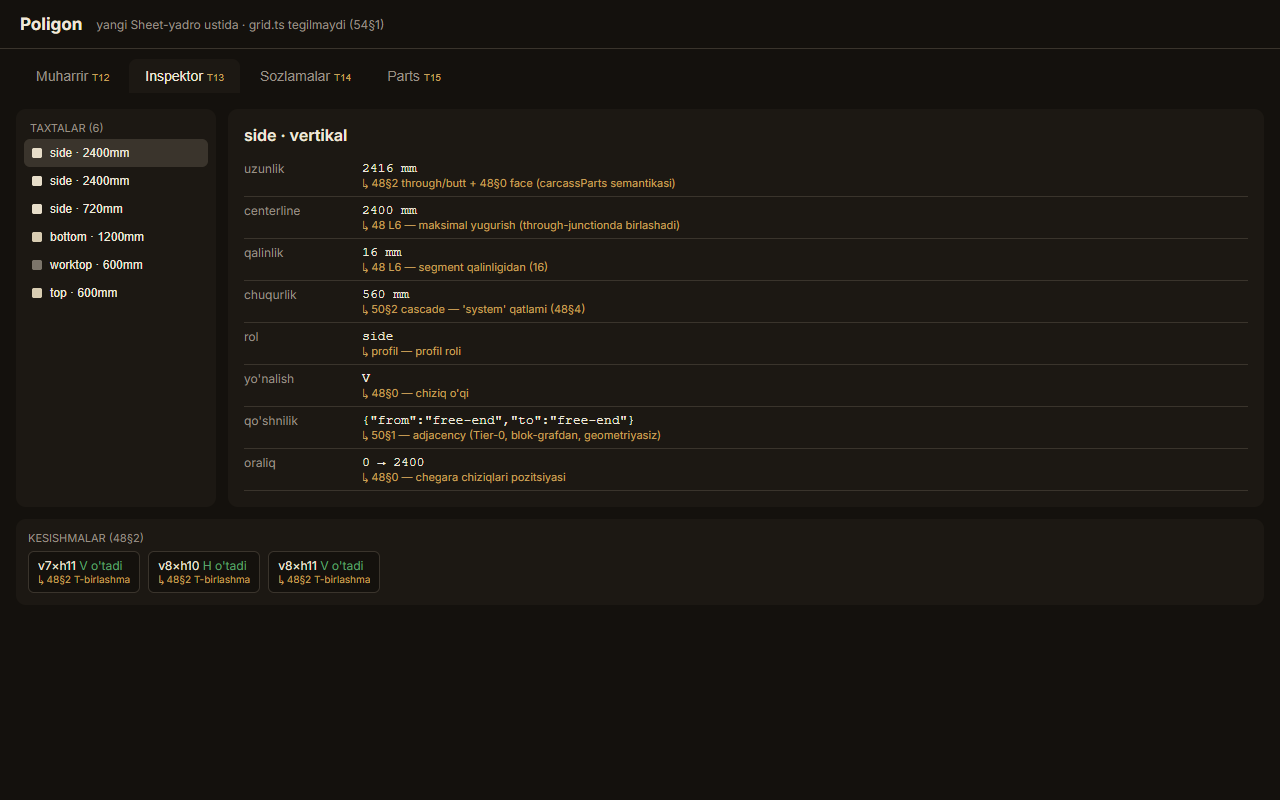
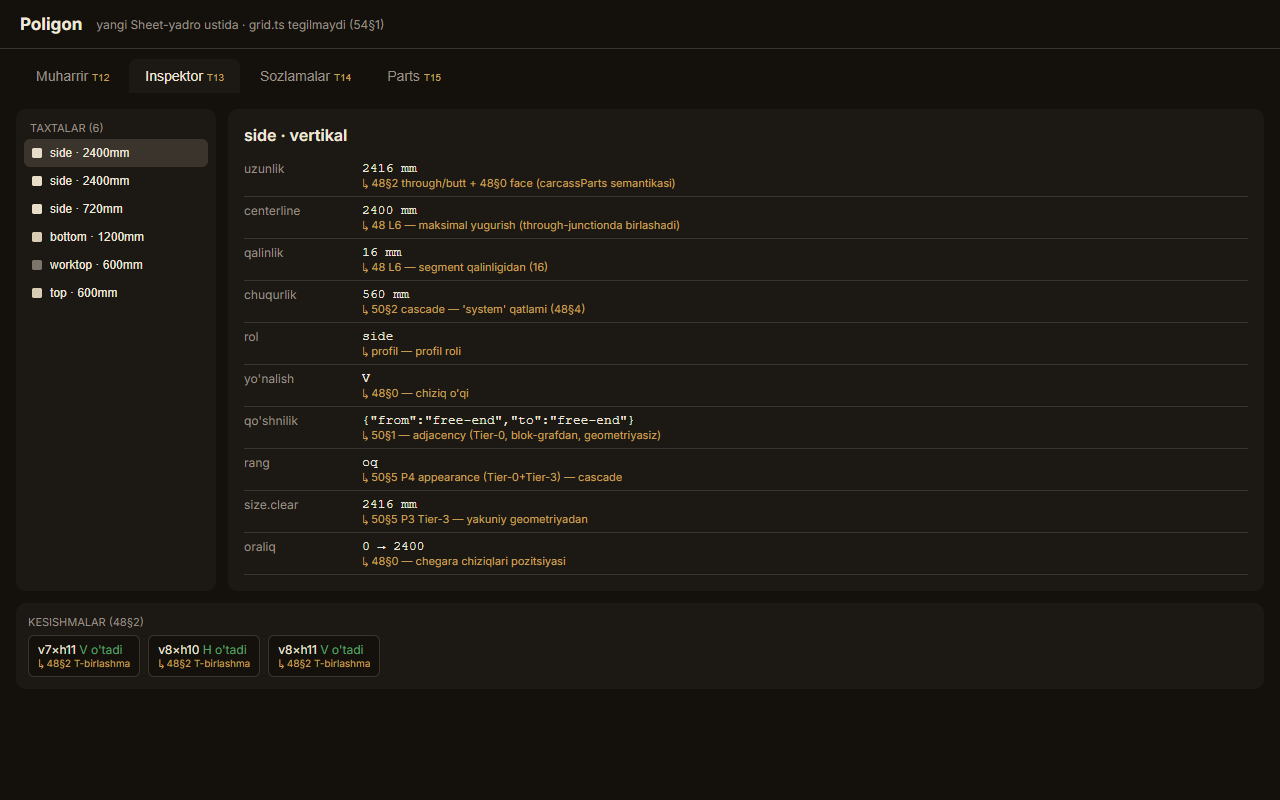
feat(B2): to'liq rules pipeline P1→P2→P3→P4 (50§5) + D8 authoring gate
derive endi STAGED: P1 geometrik param (Tier-0), P2 geometriya, P3 Tier-3 (size.clear),
P4 appearance (colour). D8 (50§5/51/54 T7): P1 qoida Tier-3 facetga tayansa yozilishda RAD;
P4 esa Tier-3 ruxsat. Two-tone (50§3) = cascade layer (worktop=dub). Inspektor har bosqichni
provenans bilan ko'rsatadi. 111/111 test, typecheck 0, build ok.

Changed region(s): [[0.0312, 0.5625, 0.5, 0.8438], [0.1875, 0.5625, 0.2188, 0.5938]]

diff --git a/apps/app/src/poligon/model/derive.ts b/apps/app/src/poligon/model/derive.ts
@@ -11,7 +11,7 @@ import { boardRuns, type Board, type ThroughAt } from "./board.ts";
 import { deriveModules, transportCheck, type Module, type TransportLimit } from "./module.ts";
 import { resolveThrough, classify, type Role, type Through, type Override, type JClass } from "./junction.ts";
 import { computeAdjacency, type Adjacency, type PanelTopo } from "./facets.ts";
-import { resolve, type Rule, type Part as FacetPart } from "./cascade.ts";
+import { resolve, authorRule, type Rule, type Part as FacetPart } from "./cascade.ts";
 
 /** Profil — devorga tuzilaviy rol beradi (48§2 rutba shundan). through = per-kesishma override.
  *  rules = 50§2 cascade qoidalari (B1 depth shu orqali: 48§4 "depth = profildan default, cascadable"). */
@@ -30,9 +30,14 @@ export interface DerivedPart {
   finishedFrom: number;
   finishedTo: number;
   finishedLength: number;
-  /** B1/48§4: chuqurlik — cascade (50§2) orqali hal qilingan blok atributi (sheet emas). undefined = profil
-   *  rules bermagan (depth ishlatilmaydi). 53§1: side = depth × length (masalan 560 × 720). */
+  /** B1/48§4: chuqurlik — cascade (50§2). `params.depth` bilan bir xil (qulaylik uchun alias). */
   depth?: number;
+  /** B2/50§5 P1 — GEOMETRIK parametrlar (Tier-0 facetdan): depth, setback, overlay, gap, presence, count. */
+  params: Record<string, unknown>;
+  /** B2/50§5 P3 — Tier-3 facetlar (yakuniy geometriyadan): size.clear (real); edge_exposure → B3 (adjacency). */
+  tier3: Record<string, unknown>;
+  /** B2/50§5 P4 — APPEARANCE parametrlar (Tier-0+Tier-3): colour, decor, kromka, hardware finish. */
+  appearance: Record<string, unknown>;
   facets: { role: Role | "unknown"; axis: Axis; adjacency: Record<string, Adjacency> };
   provenance: { thickness: string; role: string; length: string; depth?: string };
 }
@@ -60,14 +65,21 @@ function crossesThrough(s: Sheet, line: Line, atIdx: number, perp: Line[]): bool
 }
 
 /**
- * 54§2: derive — sheet + profil + qoidalardan to'liq derivatsiya.
- * Junction'lar (T2) → through yo'nalishi → board'lar (T3, through-aware) → modul'lar (T4) →
- * Tier-0 facet'lar (T6). Rol yetishmasa yoki 'both'/tenglik bo'lsa — RAD to'planadi, taxmin yo'q.
+ * 54§2 + 50§5: derive — STAGED pipeline P0→P4 (P5 validate / P6 release keyin chaqiriladi).
+ *  P0 sheet → P1 geometrik param (Tier-0 only) → P2 geometriya (junction→board→extent) →
+ *  P3 Tier-3 facet (size.clear; edge_exposure→B3) → P4 appearance (Tier-0+Tier-3).
+ * D8 (50§5): P1 qoida Tier-3 facetga tayansa — YOZILISHDA rad (run'da emas). Rol/tenglik/both → RAD, taxmin yo'q.
  */
-export function derive(sheet: Sheet, profile: Profile, _rules: unknown[] = []): Derivation {
+export function derive(sheet: Sheet, profile: Profile, rules: Rule[] = profile.rules ?? []): Derivation {
   const refusals: Refusal[] = [];
-  const provenance = ["48§0-1 model", "48§2 junctions", "48 L6 board runs", "48§0 modules"];
+  const provenance = ["48§0-1 model", "48§2 junctions", "48 L6 board runs", "48§0 modules", "50§5 P0→P4 pipeline"];
   const roleOf = (id: LineId): Role | "unknown" => profile.roles[id] ?? "unknown";
+
+  // ── P1 AUTHORING GATE (50§5 / 51 D8 / 54 T7): P1 (geometrik) qoida Tier-3 facetga tayanolmaydi.
+  //    YOZILISH paytida tekshiriladi (run'da emas) — E1 tsiklik rad, E2 exposed-end-panel qabul.
+  for (const r of rules) { const a = authorRule(r); if (a) refusals.push(a); }
+  const p1Props = [...new Set(rules.filter((r) => r.pass === "P1").map((r) => r.property))];
+  const p4Props = [...new Set(rules.filter((r) => r.pass !== "P1").map((r) => r.property))]; // pass yo'q → appearance (P4)
 
   // ── Junctions (T2): faqat HAQIQIY X-kesishma (ikkala chiziq nuqtadan o'tadi) rutba-kontestga kiradi.
   //    T-birlashmada (bir chiziq tugaydi) — o'tuvchi chiziq davom etadi, tugovchi tabiiy yopiladi (boardRuns).
@@ -124,21 +136,37 @@ export function derive(sheet: Sheet, profile: Profile, _rules: unknown[] = []): 
     const role = roleOf(b.line);
     const topo = panelTopo(b, role);
     const ext = finishedExtent(sheet, profile, b);
-    // B1/48§4: depth cascade (50§2). Faqat profil rules bergan bo'lsa. Topilmasa Incomplete → RAD (Law E:
-    // "system total" — profil default depth bermasa, jimgina taxmin YO'Q).
-    let depth: number | undefined;
+    const adjacency = computeAdjacency(topo);
+
+    // ── P1 (50§5): GEOMETRIK parametrlar — Tier-0 facetlar (role, axis, adjacency). Topilmasa RAD (Law E). ──
+    const tier0: FacetPart = { role, axis: b.axis, adjacency };
+    const params: Record<string, unknown> = {};
     let depthProv: string | undefined;
-    if (profile.rules && profile.rules.length) {
-      const facetPart: FacetPart = { role, axis: b.axis };
-      const r = resolve(facetPart, "depth", profile.rules);
-      if ("rule" in r) { refusals.push(r); }
-      else if (typeof r.value === "number") { depth = r.value; depthProv = `50§2 cascade — '${r.layer}' qatlami (48§4)`; }
+    for (const prop of p1Props) {
+      const r = resolve(tier0, prop, rules);
+      if ("rule" in r) refusals.push(r);
+      else { params[prop] = r.value; if (prop === "depth") depthProv = `50§2 cascade — '${r.layer}' qatlami (48§4)`; }
     }
+    const depth = typeof params.depth === "number" ? params.depth : undefined;
+
+    // ── P3 (50§5): Tier-3 facetlar — YAKUNIY geometriyadan. size.clear = finished uzunlik (real).
+    //    edge_exposure haqiqiy adjacency talab qiladi (hozir stub) → B3 gача hisoblanmaydi. ──
+    const tier3: Record<string, unknown> = { "size.clear": ext.length };
+
+    // ── P4 (50§5): APPEARANCE parametrlar — Tier-0 + Tier-3 facetlar ruxsat. ──
+    const tier0and3: FacetPart = { ...tier0, ...tier3 };
+    const appearance: Record<string, unknown> = {};
+    for (const prop of p4Props) {
+      const r = resolve(tier0and3, prop, rules);
+      if ("rule" in r) refusals.push(r);
+      else appearance[prop] = r.value;
+    }
+
     return {
       board: b, role,
       finishedFrom: ext.from, finishedTo: ext.to, finishedLength: ext.length,
-      depth,
-      facets: { role, axis: b.axis, adjacency: computeAdjacency(topo) },
+      depth, params, tier3, appearance,
+      facets: { role, axis: b.axis, adjacency },
       provenance: {
         thickness: `48 L6 — segment qalinligidan (${b.thickness})`,
         role: profile.roles[b.line] ? "profil roli" : "rol berilmagan",

diff --git a/apps/app/tests/poligon/derive.test.ts b/apps/app/tests/poligon/derive.test.ts
@@ -200,11 +200,11 @@ test("B1/50§2: yuqori qatlam yutadi — shelf project-override 520 > system 560
   assert.equal(d.parts.find((p) => p.role === "side")!.depth, 560, "side default");
 });
 
-test("B1/Law E: profil rules BOR lekin depth qoidasi YO'Q → Incomplete RAD (jimgina taxmin yo'q)", () => {
-  const { s, roles } = box600();
-  const rules: Rule[] = [{ layer: "system", property: "colour", value: "white", facets: [], match: () => true }];
+test("B1/Law E: depth P1 e'lon qilingan lekin system default YO'Q (faqat shelf) → boshqa partlar Incomplete RAD", () => {
+  const { s, roles } = box600(); // side/side/bottom/top — hech biri shelf emas
+  const rules: Rule[] = [{ layer: "project", property: "depth", value: 520, facets: ["role"], match: (p) => p.role === "shelf", pass: "P1" }];
   const d = derive(s, { roles, rules });
-  assert.ok(d.refusals.some((r) => r.rule === "Incomplete"), "depth yo'q → Incomplete");
+  assert.ok(d.refusals.some((r) => r.rule === "Incomplete"), "side uchun depth topilmadi → Incomplete (system total emas, taxmin yo'q)");
 });
 
 test("B1: profil rules umuman YO'Q → depth undefined (funksiya ishlatilmaydi, RAD ham yo'q)", () => {
@@ -212,6 +212,35 @@ test("B1: profil rules umuman YO'Q → depth undefined (funksiya ishlatilmaydi, 
   const d = derive(s, { roles });
   assert.equal(d.parts.find((p) => p.role === "side")!.depth, undefined);
   assert.deepEqual(d.refusals, []);
+});
+
+test("B2/50§5 P4: appearance (colour) cascade orqali hal qilinadi — side=oq (theme default)", () => {
+  const { s, roles } = box600();
+  const rules: Rule[] = [{ layer: "theme", property: "colour", value: "oq", facets: [], match: () => true }];
+  const d = derive(s, { roles, rules });
+  assert.equal(d.parts.find((p) => p.role === "side")!.appearance.colour, "oq");
+  assert.deepEqual(d.refusals, []);
+});
+
+test("B2/50§5 P3: size.clear = yakuniy uzunlik (Tier-3, geometriyadan)", () => {
+  const { s, roles } = box600();
+  const d = derive(s, { roles });
+  const side = d.parts.find((p) => p.role === "side")!;
+  assert.equal(side.tier3["size.clear"], side.finishedLength);
+});
+
+test("B2/50§5 D8 GATE: P1 (geometrik) qoida Tier-3 facetga (edge_exposure) tayansa → YOZILISHDA D8 RAD", () => {
+  const { s, roles } = box600();
+  const bad: Rule[] = [{ layer: "system", property: "depth", value: 560, facets: ["edge_exposure"], match: () => true, pass: "P1" }];
+  const d = derive(s, { roles, rules: bad });
+  assert.ok(d.refusals.some((r) => r.rule === "D8"), "P1 + Tier-3 facet → D8");
+});
+
+test("B2/50§5 D8 GATE: P4 (appearance) qoida Tier-3 facetga tayansa → RUXSAT (D8 yo'q)", () => {
+  const { s, roles } = box600();
+  const ok: Rule[] = [{ layer: "theme", property: "colour", value: "oq", facets: ["edge_exposure"], match: () => true }]; // pass yo'q → P4
+  const d = derive(s, { roles, rules: ok });
+  assert.ok(!d.refusals.some((r) => r.rule === "D8"), "P4 + Tier-3 facet → ruxsat");
 });
 
 test("T4: transport — modul eni ruxsatdan katta → transport RAD", () => {

diff --git a/apps/app/src/poligon/ui/seed.ts b/apps/app/src/poligon/ui/seed.ts
@@ -27,8 +27,13 @@ export function seedWall(): { sheet: Sheet; profile: Profile } {
   // B1/48§4: depth cascade qoidalari — system default 560 (hamma part), shelf uchun project-override 520.
   // (48§4 "depth = profildan default, cascadable project→zone→module→part"; geometrik param = P1, Tier-0 role.)
   const rules: Rule[] = [
+    // P1 (geometrik, Tier-0): depth
     { layer: "system", property: "depth", value: 560, facets: [], match: () => true, pass: "P1" },
     { layer: "project", property: "depth", value: 520, facets: ["role"], match: (p) => p.role === "shelf", pass: "P1" },
+    // P4 (appearance, Tier-0+Tier-3): colour — 50§2 cascade (yuqori qatlam yutadi): theme=oq (hamma),
+    // project=dub (faqat worktop) → worktop dub, qolgani oq. Turli qatlam → Conflict yo'q (50§3 two-tone).
+    { layer: "theme", property: "colour", value: "oq", facets: [], match: () => true },
+    { layer: "project", property: "colour", value: "dub", facets: ["role"], match: (p) => p.role === "worktop" },
   ];
   return { sheet: s, profile: { roles, transport: { maxWidth: 1200 }, rules } };
 }

diff --git a/apps/app/src/poligon/ui/Inspector.tsx b/apps/app/src/poligon/ui/Inspector.tsx
@@ -54,6 +54,10 @@ export function Inspector({ sheet, profile }: { sheet: Sheet; profile: Profile }
             <Row label="rol" value={part.role} rule={`profil — ${part.provenance.role}`} />
             <Row label="yo'nalish" value={part.board.axis} rule="48§0 — chiziq o'qi" />
             <Row label="qo'shnilik" value={JSON.stringify(part.facets.adjacency)} rule="50§1 — adjacency (Tier-0, blok-grafdan, geometriyasiz)" />
+            {"colour" in part.appearance && (
+              <Row label="rang" value={String(part.appearance.colour)} rule="50§5 P4 appearance (Tier-0+Tier-3) — cascade" />
+            )}
+            <Row label="size.clear" value={`${part.tier3["size.clear"]} mm`} rule="50§5 P3 Tier-3 — yakuniy geometriyadan" />
             <Row label="oraliq" value={`${part.board.from} → ${part.board.to}`} rule="48§0 — chegara chiziqlari pozitsiyasi" />
           </>
         )}

diff --git a/AUDIT.md b/AUDIT.md
@@ -55,7 +55,7 @@ junction through/butt (48§2) UZUNLIKKA ta'sir qilmayapti.** Kod bilan isbotland
 | # | Nima | Holat | Hujjat |
 |---|------|-------|--------|
 | ~~B1~~ | ✅ **Depth — BAJARILDI (2026-09-09)** | `derive` da 50§2 cascade orqali hal qilinadi (profil `rules`): side=560 (system), shelf=520 (project override); Incomplete→RAD (Law E). Kesim: uzunlik×chuqurlik (53§1). Inspektor provenans bilan. Qoldig'i: zone/module facet-matching (hozir role/axis), flat-panel nesting chizmasi. | 48§4 + 49 + 50§2 + 53§1 |
-| B2 | `derive()` `rules` | E'TIBORGA OLINMAYDI (`_rules`) — cascade (resolve) va geometriya ALOHIDA | 50§5 P0→P6: P1 geometrik param → P2 geometriya → P4 appearance. §2 `derive(sheet,profile,rules)` — rules qismi ishlamaydi. |
+| ~~B2~~ | ✅ **rules pipeline — BAJARILDI (2026-09-09)** | `derive` endi STAGED P1→P2→P3→P4: P1 geometrik param (Tier-0, D8 authoring gate — Tier-3 facetli P1 qoida yozilishda rad), P3 Tier-3 (size.clear), P4 appearance (colour, Tier-0+Tier-3). Inspektor har bosqichni ko'rsatadi. Qoldig'i: P5/P6 to'liq zanjirga ulash, setback/overlay geometriyaga (D3) oqishi. | 50§5 + 51 D8 + 54 T7 |
 | B3 | `derive()` adjacency | `panelTopo` qo'shnini HAR DOIM "none" beradi → adjacency har doim "free-end" (SOXTA) | 50§1: adjacency block-grafdan. |
 | B4 | **L15 wall ends/opening** | `createSheet()` argumentsiz | Hujjat: `createSheet(opening, ends)` — free/into-corner/against-wall, into-corner→Reserved. Yo'q. |
 | B5 | **L9 Void/Reserved + Absorb** | delete→Void, Reserved slot, Absorb komandasi yo'q | 48 L9 + T12 gate. Op'lar faqat addLine/setThickness/moveLine. |

diff --git a/CHALA.md b/CHALA.md
@@ -40,8 +40,9 @@ sinovdan o'tган, LEKIN hujjatning jiddiy qismlari HALI YO'Q. Yangi `AUDIT.md`
 Eng muhim qolган (AUDIT §B), founder sinoviдан oldin shart:
 - ~~**B1 Depth**~~ — ✅ BAJARILDI (2026-09-09): 50§2 cascade orqali (profil rules), side=560/shelf=520,
   Law E rad; kesim uzunlik×chuqurlik (53§1); UI+inspektor+test (107/107). Qoldig'i: zone/module facet.
-- 🟡 **B2 derive() rules** — QISMAN: depth uchun cascade `resolve` ishlaydi (B1). To'liq P0→P6 (P4 appearance,
-  setback/overlay geometriyaga oqishi) hali emas.
+- ~~**B2 derive() rules pipeline**~~ — ✅ BAJARILDI (2026-09-09): STAGED P1→P2→P3→P4 (D8 authoring gate,
+  P3 size.clear, P4 colour appearance), 111/111 test. Qoldig'i: P5/P6 zanjirga to'liq ulash + setback/overlay
+  geometriyaga oqishi (D3 bilan).
 - **B3 adjacency SOXTA** (derive panelTopo har doim "free-end"); **B4 L15 wall-ends/opening**;
   **B5 L9 Void/Reserved/Absorb**; **B6 L14 wall-length**; **B7 48§3 derived-until-touched**;
   **B8 L3 qatlamlar**; **B9 haqiqiy edge_exposure kromka**.
